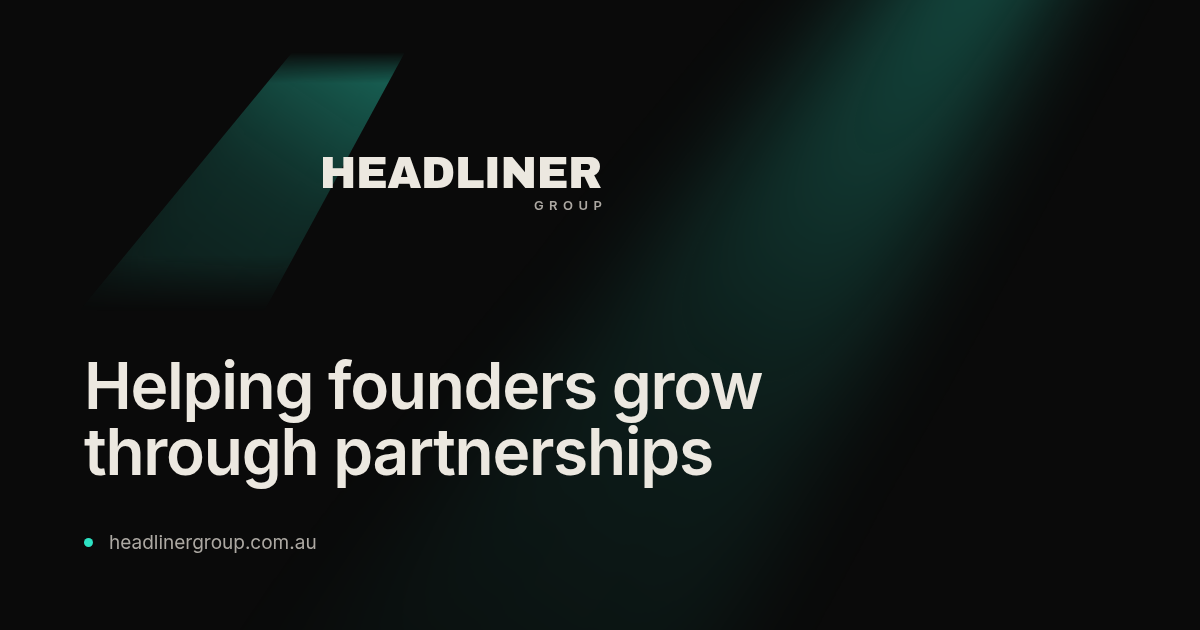
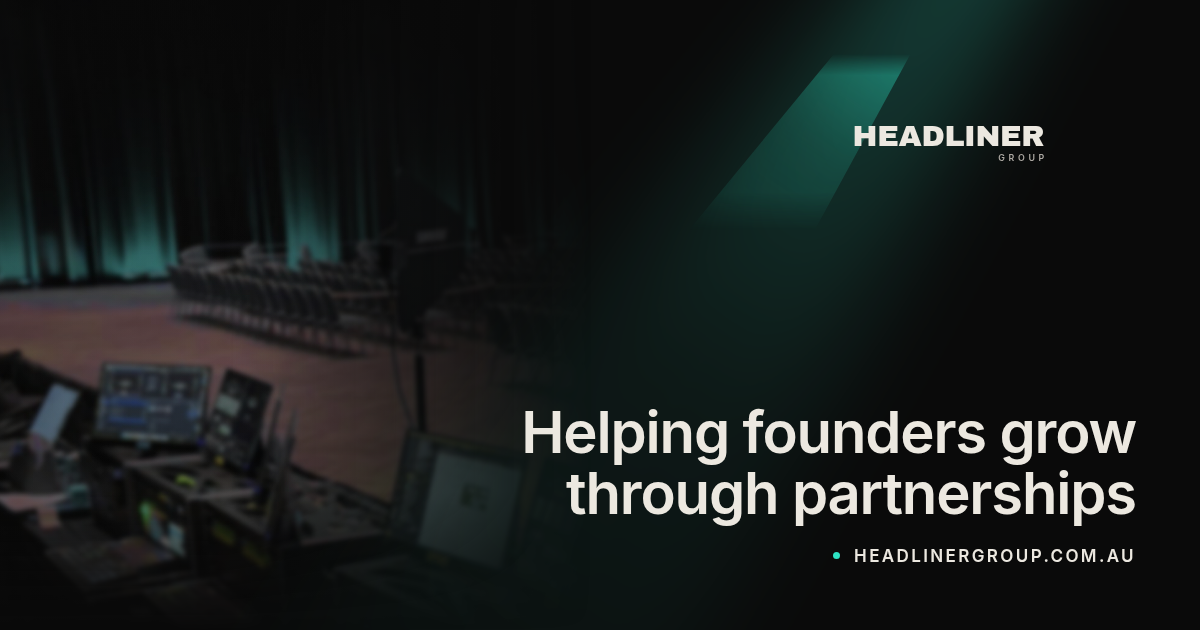
Give the Headliner cards the same anatomy as Ryan's
One layout, two brands. A photograph holds the left and dissolves into
the ground on two axes, the mark sits top right, the headline and record
sit bottom right. The group's four use the venue shot already on the home
page, the header lockup at scale .68 and the aqua beam. Ryan's keeps his
portrait, signature, Caveat kicker and pink bloom.

The venue shot needed its own numbers rather than his. It is 2400 wide,
much lighter, and at his settings the headline landed on a lit wooden
floor at 6.28:1. It now dissolves from 34 percent rather than 45 and
takes a heavier right hand scrim, which puts the headline at 11.42:1.

Everything measured against pixels rather than tokens, since a dissolving
photograph passes a token audit while sitting under the text. Group:
headline 11.42, record 16.13, lockup 11.02. Ryan: headline 10.03, record
15.64, kicker 5.51, signature 16.20.

Claude-Session: https://claude.ai/code/session_01DjfMPENav1QLkD66DkX8kr

Changed region(s): [[0.0, 0.0905, 0.9558, 0.9048], [0.6167, 0.0905, 0.8942, 0.2714], [0.7092, 0.8746, 0.9558, 0.9048]]

diff --git a/tools-og/card.html b/tools-og/card.html
@@ -5,77 +5,84 @@
 <link rel="stylesheet" href="/home/user/Headliner-Group-Website/assets/css/styles.css">
 <style>
   html,body{width:1200px;height:630px;overflow:hidden}
-  body{background:#0A0A0A;color:#ECE8E0;
-       display:flex;flex-direction:column;justify-content:space-between;
-       padding:52px 84px 72px;isolation:isolate;font-size:17px}
+  body{background:#0A0A0A;color:#ECE8E0;position:relative;overflow:hidden;
+       margin:0;padding:0;font-size:17px}
 
-  /* ---------- Headliner Group card ---------- */
-  /* the site's own hero beam, same construction: blur on the element, clip on ::before */
-  .beam{position:absolute;top:-260px;right:-150px;width:420px;height:1400px;
-        transform:rotate(34deg);transform-origin:top center;filter:blur(46px);
-        mix-blend-mode:screen;pointer-events:none;z-index:-1}
-  .beam::before{content:"";position:absolute;inset:0;
-        clip-path:polygon(43% 0,57% 0,100% 100%,0 100%);
-        background:linear-gradient(to bottom,rgba(45,226,195,.42),rgba(45,226,195,.09) 55%,rgba(45,226,195,0))}
-  /* the stage is 18em by 5.9em at 44px, so scale 1 leaves it 792 by 260. Sized to
-     match, and pulled left so the beam bleeds off the edge the way it does in the bar. */
-  .lock{position:relative;width:792px;height:260px;margin-left:-140px}
-  .lock .hl-stage{transform:scale(1)}
-  h1{font-family:'Inter',sans-serif;font-weight:600;font-size:64px;line-height:1.04;
-     letter-spacing:-.02em;max-width:17ch;text-wrap:balance;color:#ECE8E0;margin:0}
-  .foot{display:flex;align-items:center;gap:16px;font-size:19px;color:#ADA9A3;margin:0}
-  .dot{width:9px;height:9px;border-radius:99px;background:#2DE2C3;flex:none}
-
-  /* ---------- Ryan's card ----------
-     Built to the anatomy of his LinkedIn banner. Signature as the mark, portrait
-     bottom left, Caveat kicker, Anton headline and the record, both right aligned.
-     The pink bloom sits bottom left behind the portrait and never reaches the
-     signature, because his system keeps the mark on clean ground. */
-  body.ryan{display:block;padding:0;position:relative;overflow:hidden}
-  body.ryan .beam,body.ryan .lock,body.ryan h1,body.ryan .foot{display:none}
-  .r{position:absolute;inset:0}
-  .r__bloom{position:absolute;inset:0;z-index:0;
-     background:
-       radial-gradient(64% 96% at 4% 108%,rgba(255,45,107,.50),rgba(255,45,107,.14) 46%,rgba(255,45,107,0) 74%),
-       radial-gradient(80% 54% at 30% 116%,rgba(255,45,107,.22),rgba(255,45,107,0) 78%);}
-  /* the portrait holds the left and dissolves into the ground on two axes, the same
-     move the hero on his page makes. No circle. That was a LinkedIn constraint, not
-     a design decision, and it does not belong on a surface that has no such rule. */
-  .r__photo{position:absolute;left:0;top:0;bottom:0;width:56%;z-index:1;
+  /* Both cards share one anatomy. Photograph holds the left and dissolves into the
+     ground on two axes, mark top right, headline and record bottom right. What
+     changes between them is the brand, which is the whole point. */
+  .photo{position:absolute;left:0;top:0;bottom:0;width:56%;z-index:1;
      --m:linear-gradient(to right,#000 0,#000 45%,transparent 96%),
          linear-gradient(to top,transparent 0,#000 22%);
      -webkit-mask-image:var(--m);mask-image:var(--m);
      -webkit-mask-composite:source-in;mask-composite:intersect}
-  .r__photo img{width:100%;height:100%;object-fit:cover;display:block;
-     object-position:95% 30%;opacity:.88}
-  /* the background behind his head is blown out, and left raw it fights the dark
-     card. Same scrim move the hero on his page makes. Inside the masked element,
-     so the scrim dissolves with the photo instead of ending on a line. */
-  .r__photo::after{content:"";position:absolute;inset:0;
+  .photo img{width:100%;height:100%;object-fit:cover;display:block;opacity:.88}
+  /* the scrim sits inside the masked element, so it dissolves with the photograph
+     rather than ending on a line */
+  .photo::after{content:"";position:absolute;inset:0;
      background:
        linear-gradient(to bottom,rgba(10,10,10,.62) 0,rgba(10,10,10,.10) 42%,rgba(10,10,10,.34) 100%),
        linear-gradient(to right,rgba(10,10,10,.34),rgba(10,10,10,0) 48%)}
-  .r__sig{position:absolute;right:64px;top:54px;width:400px;color:#ECE8E0;z-index:2}
-  .r__sig svg{width:100%;height:auto;display:block}
-  .r__right{position:absolute;right:64px;bottom:60px;z-index:2;text-align:right;
+  .mark{position:absolute;right:64px;top:54px;z-index:2}
+  .right{position:absolute;right:64px;bottom:60px;z-index:2;text-align:right;
      display:flex;flex-direction:column;align-items:flex-end;gap:10px;max-width:660px}
-  .r__hand{font-family:'Caveat',cursive;font-size:40px;line-height:1;color:#FF2D6B;margin:0}
-  .r__head{font-family:'Anton',sans-serif;font-weight:400;text-transform:uppercase;
-     font-size:56px;line-height:1.02;letter-spacing:0;color:#ECE8E0;margin:0}
-  .r__rec{display:flex;align-items:center;gap:14px;margin:8px 0 0;
+  .rec{display:flex;align-items:center;gap:14px;margin:8px 0 0;
      font-family:'Inter',sans-serif;font-weight:600;font-size:17px;letter-spacing:.14em;
      text-transform:uppercase;color:#ECE8E0}
-  .r__rec i{width:7px;height:7px;border-radius:99px;background:#FF2D6B;display:block}
+  .rec i{width:7px;height:7px;border-radius:99px;display:block}
+
+  /* ---------- Headliner Group ---------- */
+  /* the venue shot is 2400 wide and far lighter than his portrait, so it dissolves
+     earlier or the headline ends up sitting on a wooden floor */
+  .g .photo{--m:linear-gradient(to right,#000 0,#000 34%,transparent 88%),
+                linear-gradient(to top,transparent 0,#000 22%)}
+  .g .photo img{object-position:24% 66%}
+  .g .photo::after{background:
+       linear-gradient(to bottom,rgba(10,10,10,.62) 0,rgba(10,10,10,.16) 42%,rgba(10,10,10,.40) 100%),
+       linear-gradient(to right,rgba(10,10,10,.30),rgba(10,10,10,.10) 40%,rgba(10,10,10,.55) 100%)}
+  /* the site's own hero beam, same construction: blur on the element, clip on ::before */
+  .g__beam{position:absolute;top:-260px;right:-130px;width:420px;height:1400px;z-index:1;
+        transform:rotate(34deg);transform-origin:top center;filter:blur(46px);
+        mix-blend-mode:screen;pointer-events:none}
+  .g__beam::before{content:"";position:absolute;inset:0;
+        clip-path:polygon(43% 0,57% 0,100% 100%,0 100%);
+        background:linear-gradient(to bottom,rgba(45,226,195,.34),rgba(45,226,195,.07) 55%,rgba(45,226,195,0))}
+  /* the stage is 18em by 5.9em at 44px, so scale .68 leaves it 539 by 177 */
+  .g .mark{width:539px;height:177px}
+  .g .hl-stage{transform:scale(.68)}
+  .g h1{font-family:'Inter',sans-serif;font-weight:600;font-size:58px;line-height:1.05;
+     letter-spacing:-.02em;color:#ECE8E0;margin:0;text-wrap:balance}
+  .g .rec i{background:#2DE2C3}
+
+  /* ---------- Ryan Tayler ---------- */
+  .r__bloom{position:absolute;inset:0;z-index:0;
+     background:
+       radial-gradient(64% 96% at 4% 108%,rgba(255,45,107,.50),rgba(255,45,107,.14) 46%,rgba(255,45,107,0) 74%),
+       radial-gradient(80% 54% at 30% 116%,rgba(255,45,107,.22),rgba(255,45,107,0) 78%)}
+  .r .photo img{object-position:95% 30%}
+  .r .mark{width:400px;color:#ECE8E0}
+  .r .mark svg{width:100%;height:auto;display:block}
+  .r__hand{font-family:'Caveat',cursive;font-size:40px;line-height:1;color:#FF2D6B;margin:0}
+  .r h2{font-family:'Anton',sans-serif;font-weight:400;text-transform:uppercase;
+     font-size:56px;line-height:1.02;letter-spacing:0;color:#ECE8E0;margin:0}
+  .r .rec i{background:#FF2D6B}
 </style></head>
 <body>
-  <div class="beam"></div>
-  <div class="lock"><div class="hl-stage"><div class="hl-logo"><div class="hl-beam"></div><span class="hl-word">Headliner</span><div class="hl-group">Group</div></div></div></div>
-  <h1 id="t"></h1>
-  <p class="foot"><span class="dot"></span><span id="f"></span></p>
+
+  <div class="g">
+    <div class="photo"><img src="/home/user/Headliner-Group-Website/assets/img/hero-foh.jpg" alt=""></div>
+    <div class="g__beam"></div>
+    <div class="mark"><div class="hl-stage"><div class="hl-logo"><div class="hl-beam"></div><span class="hl-word">Headliner</span><div class="hl-group">Group</div></div></div></div>
+    <div class="right">
+      <h1 id="t"></h1>
+      <p class="rec"><i></i><span id="f"></span></p>
+    </div>
+  </div>
 
   <div class="r">
     <div class="r__bloom"></div>
-    <div class="r__sig"><svg viewBox="0 0 601.04 273.69" fill="currentColor" xmlns="http://www.w3.org/2000/svg" aria-label="Ryan Tayler signature">
+    <div class="photo"><img src="/home/user/Headliner-Group-Website/assets/img/ryan-hero.jpg" alt=""></div>
+    <div class="mark"><svg viewBox="0 0 601.04 273.69" fill="currentColor" xmlns="http://www.w3.org/2000/svg" aria-label="Ryan Tayler signature">
   <path d="M394.25,46.02c32.82.56,65.41,1.12,97.93,1.68.55-2.98,1-5.46,1.47-8.05,6.11,1.13,6.02,5.62,6.52,10.1,4.97,0,9.74.2,14.49-.05,5.58-.29,9.47,2.55,12.68,6.47,1.02,1.25,1.33,3.37,1.35,5.1.04,2.69-1.29,4.69-3.79,1.98-6.56-7.09-15.54-4.8-23.51-6.34-1.04-.2-3.15,1.45-3.63,2.68-6.12,15.73-11.35,31.84-18.19,47.24-6.12,13.79-13.8,26.92-21.18,40.12-1.1,1.98-4.36,2.75-6.62,4.08l-1.19-1.02c.64-2.21.8-4.73,2.01-6.57,8.7-13.24,16.1-27.13,21.86-41.91,5.65-14.52,11.38-29,17.56-44.72-6.9-.81-12.64-2.02-18.38-2.06-28.76-.19-57.52-.14-86.28.11-2.12.02-5.25,1.81-6.18,3.65-12.6,25.01-25.31,49.98-37.1,75.37-7.93,17.06-14.45,34.78-21.23,51.29-2.73-.29-4.63-.49-7.51-.8.2-2.64.47-6.06.72-9.49.31-4.31,1.14-8.65.82-12.91-1.41-19-6.87-36.27-22.12-49.15-10.1-8.53-21.47-14.71-33.84-19.23-9.74-3.56-19.52-7.05-29.13-10.93-2.19-.88-5.35-3.28-5.3-4.89.08-2.58,2.03-5.53,4.01-7.5,1.75-1.74,4.53-2.74,7.03-3.38,12.55-3.19,25.11-6.41,37.77-9.12,10.92-2.34,21.95-4.18,32.99-5.9,5.93-.93,11.98-1.13,17.97-1.69,9.24-.86,18.46-1.92,27.71-2.53,5.34-.35,10.73-.1,16.09.13,5.91.26,10.39-1.93,14.01-6.6,1.22-1.58,3.98-3.6,5.21-3.15,1.89.69,3.12,3.29,4.48,5.19.4.56.3,1.5.51,2.78ZM373.24,55.73c-46.61,1.06-92.54,8.58-137.92,20.46.71.88,1.4,1.22,2.12,1.47,23.34,8.13,46.84,15.94,65.22,33.68,9.73,9.39,16.05,20.68,19.22,33.73,1.13,4.64,1.8,9.38,2.68,14.12,16.33-34.71,32.45-68.96,48.68-103.46Z"/>
   <path d="M131.29,176.82c11.1-14.62,21.78-28.67,32.73-43.1-5.7-1.03-10.34-3.16-10.78-9.02-.48-6.44-1.27-13.29,5.13-17.99,2.81,2.95,5.86,5.35,2.89,10.05-1.12,1.78-.49,4.66-.71,7.71,12.73-3.86,19.39-14.44,28.61-21.48,4.99,3.58,5,5.85,1.1,10.86-17.49,22.41-34.87,44.91-52.65,67.85,7.33,5.22,14.52,10.12,21.47,15.33,19.32,14.48,38.54,29.1,57.83,43.62,4.6,3.46,9.47,6.56,13.94,10.16,1.37,1.11,1.84,3.33,2.72,5.04-2.2-.04-4.99.78-6.5-.26-8.31-5.69-16.24-11.93-24.42-17.81-21.05-15.11-42.42-29.78-63.17-45.29-16.3-12.18-31.92-25.29-47.72-38.13-2.53-2.06-4.65-4.74-6.54-7.42-6.27-8.88-4.43-16.06,5.8-20.42,6.73-2.87,14.18-4.08,20.92-6.93,15.29-6.46,31.26-11.74,44.39-22.4,3.27-2.66,6.49-5.91,8.43-9.58,5-9.46-.5-17.61-12.67-21.06-15.93-4.51-31.67-2.62-47.66-.52-15.85,2.09-29.86,8.08-42.29,17.69-4.19,3.25-7.61,7.79-10.53,12.29-3.12,4.81-1.59,8.85,3.11,12.37,2.66,1.98,5.14,4.25,7.41,6.66.64.68.79,2.71.24,3.37-.55.67-2.37.84-3.4.51-14.91-4.79-17.55-23.64-9.8-32.39,8.14-9.18,17.15-16.8,29.39-20.18,6.87-1.9,13.24-5.82,20.16-7.23,8.77-1.79,17.91-1.72,26.82-2.9,9.51-1.27,18.7.22,27.79,2.56,10.84,2.79,21.33,12.69,19.57,23.26-.68,4.1-3.03,8.23-5.55,11.65-13.77,18.68-34.49,26.22-55.19,33.74-6.19,2.25-12.38,4.49-18.48,6.96-5.5,2.22-6.34,5.1-1.98,9.05,10.77,9.74,21.88,19.1,32.91,28.55,1.98,1.69,4.22,3.08,6.68,4.86Z"/>
   <path d="M431.94,124.6c12.34-4.7,19.77-14.08,28.36-21.8,4.93,3.56,5.41,5.22,1.97,9.7-14.59,19.01-29.29,37.93-43.97,56.88-3.95,5.1-8.03,10.1-11.92,15.25-1.35,1.78-2.35,4.1-4.91,1.79-2.1-1.9-3.34-4.06-1.12-6.91,5.48-7.04,10.83-14.18,16.23-21.28,6.09-8.01,12.17-16.01,18.32-24.09-12.21-4.63-15.04-18.99-5.62-27.23,3.38,2.84,6.09,5.6,2.81,10.51-.97,1.45-.15,4.1-.15,7.2Z"/>
@@ -86,11 +93,11 @@
   <path d="M239.68,138.14c-.65-7.2,8.02-27.88,13.23-32.48,5.41,2.44,4.48,6.28,2.61,11.09,1.94-.99,3.85-2.03,5.81-2.95,7.94-3.73,14.38.27,13.54,9-.59,6.14-2.65,12.12-3.95,18.2-.75,3.5-1.01,7.14-2.07,10.53-.61,1.95-2.37,4.95-3.67,4.98-2.74.06-5.02-2.21-4.25-5.41,1.87-7.78,4.04-15.5,6.12-23.23.62-2.29,1.35-4.55,2.22-7.48-7.63-.43-12.1,4.1-16.94,7.4-3.26,2.22-5.92,5.28-8.93,7.88-1.02.89-2.27,1.52-3.71,2.46Z"/>
   <path d="M527.69,144.84c-3.08-1.21-4.62-3.9-3.22-7.44,4.02-10.2,8.33-20.3,12.56-30.42.17-.41.72-.66,1.64-1.47,1.58,2.81,3.06,5.46,4.8,8.55,2.45-1.21,5.76-2.78,9-4.46,4.33-2.24,7.89-.88,10.89,2.39.71.77,1.24,2.65.79,3.33-.77,1.18-2.61,2.78-3.57,2.53-8.9-2.31-13.91,3.76-18.84,8.97-5.04,5.34-9.12,11.58-14.06,18.01Z"/>
 </svg></div>
-    <div class="r__photo"><img src="/home/user/Headliner-Group-Website/assets/img/ryan-hero.jpg" alt=""></div>
-    <div class="r__right">
+    <div class="right">
       <p class="r__hand">live production expert</p>
-      <h2 class="r__head">Helping founders<br>in live events &amp; production<br>grow through partnerships</h2>
-      <p class="r__rec"><span>115+ Live events</span><i></i><span>56,000+ Attendees</span></p>
+      <h2>Helping founders<br>in live events &amp; production<br>grow through partnerships</h2>
+      <p class="rec"><i></i><span>115+ Live events &nbsp;&middot;&nbsp; 56,000+ Attendees</span></p>
     </div>
   </div>
+
 </body></html>

diff --git a/tools-og/gen.js b/tools-og/gen.js
@@ -12,9 +12,12 @@ const p=await b.newPage({viewport:{width:1200,height:630},deviceScaleFactor:1});
 for(const [slug,title,foot,ryan] of CARDS){
   await p.goto('file://'+__dirname+'/card.html');
   await p.evaluate(([t,f,r])=>{
-    if(!r) document.querySelector('.r').remove();
-    document.getElementById('t').textContent=t;
-    document.getElementById('f').textContent=f;
+    document.querySelector(r ? '.g' : '.r').remove();
+    // Ryan's card carries its own fixed copy, so only the group cards take a title
+    if(!r){
+      document.getElementById('t').textContent=t;
+      document.getElementById('f').textContent=f;
+    }
     if(r) document.body.classList.add('ryan');
   },[title,foot,ryan]);
   await p.evaluate(()=>document.fonts.ready);

diff --git a/README.md b/README.md
@@ -236,7 +236,9 @@ The `.biz` card styles are still in the stylesheet and the pattern is documented
 
 Every page carries a canonical, the Open Graph set and `twitter:card`, with the title and description pulled from what the page already declares so the two can never drift.
 
-The five cards in `assets/img/og-*.png` are 1200 by 630 and they are **generated, not drawn**. `tools-og/card.html` links the real stylesheet and uses the real `.hl-stage` markup, so the lockup on the card is the header lockup rather than a redrawing of it, beam and taper included. Re-run the generator whenever a page headline changes.
+The five cards in `assets/img/og-*.png` are 1200 by 630 and they are **generated, not drawn**. `tools-og/card.html` links the real stylesheet and uses the real `.hl-stage` markup, so the lockup on the card is the header lockup rather than a redrawing of it, beam and taper included. Re-run `tools-og/gen.js` whenever a page headline changes.
+
+All five share one anatomy. A photograph holds the left and dissolves into the ground on two axes, the mark sits top right, the headline and record sit bottom right. Only the brand changes between them. The group's four use the venue shot already on the home page, the header lockup and the aqua beam. The venue shot is far lighter and wider than the portrait, so it dissolves earlier and takes a heavier right hand scrim, or the headline lands on a wooden floor.
 
 `ryan.html` gets a different card on purpose, built to the anatomy of his LinkedIn banner. Signature as the mark, Caveat kicker, Anton headline and the record, all right aligned, with his portrait holding the left of the frame and dissolving into the ground on two axes, the same move his page hero makes. No round crop. That is a LinkedIn requirement rather than a design decision and it does not belong on a surface with no such rule. His page exists to read as a different business and the card has to do the same job.
 

diff --git a/CONTENT-DECISIONS.md b/CONTENT-DECISIONS.md
@@ -349,6 +349,12 @@ live.
 stylesheet rather than redrawn, so the lockup on the card is the header lockup, beam,
 taper and GROUP alignment included. Ryan's call.
 
+**All five share one anatomy.** A photograph holds the left and dissolves into the ground
+on two axes, the mark sits top right, the headline and the record sit bottom right. What
+changes between them is the brand, which is the point. The group's cards use the venue shot
+already on the home page, the header lockup and the aqua beam. His uses his portrait, his
+signature, the Caveat kicker and a pink bloom.
+
 His card is built to the anatomy of **his LinkedIn banner**, at his request. Signature as
 the mark, the Caveat kicker, the Anton headline over three lines and the record underneath,
 all right aligned, with the pink bloom out of the bottom left corner.
